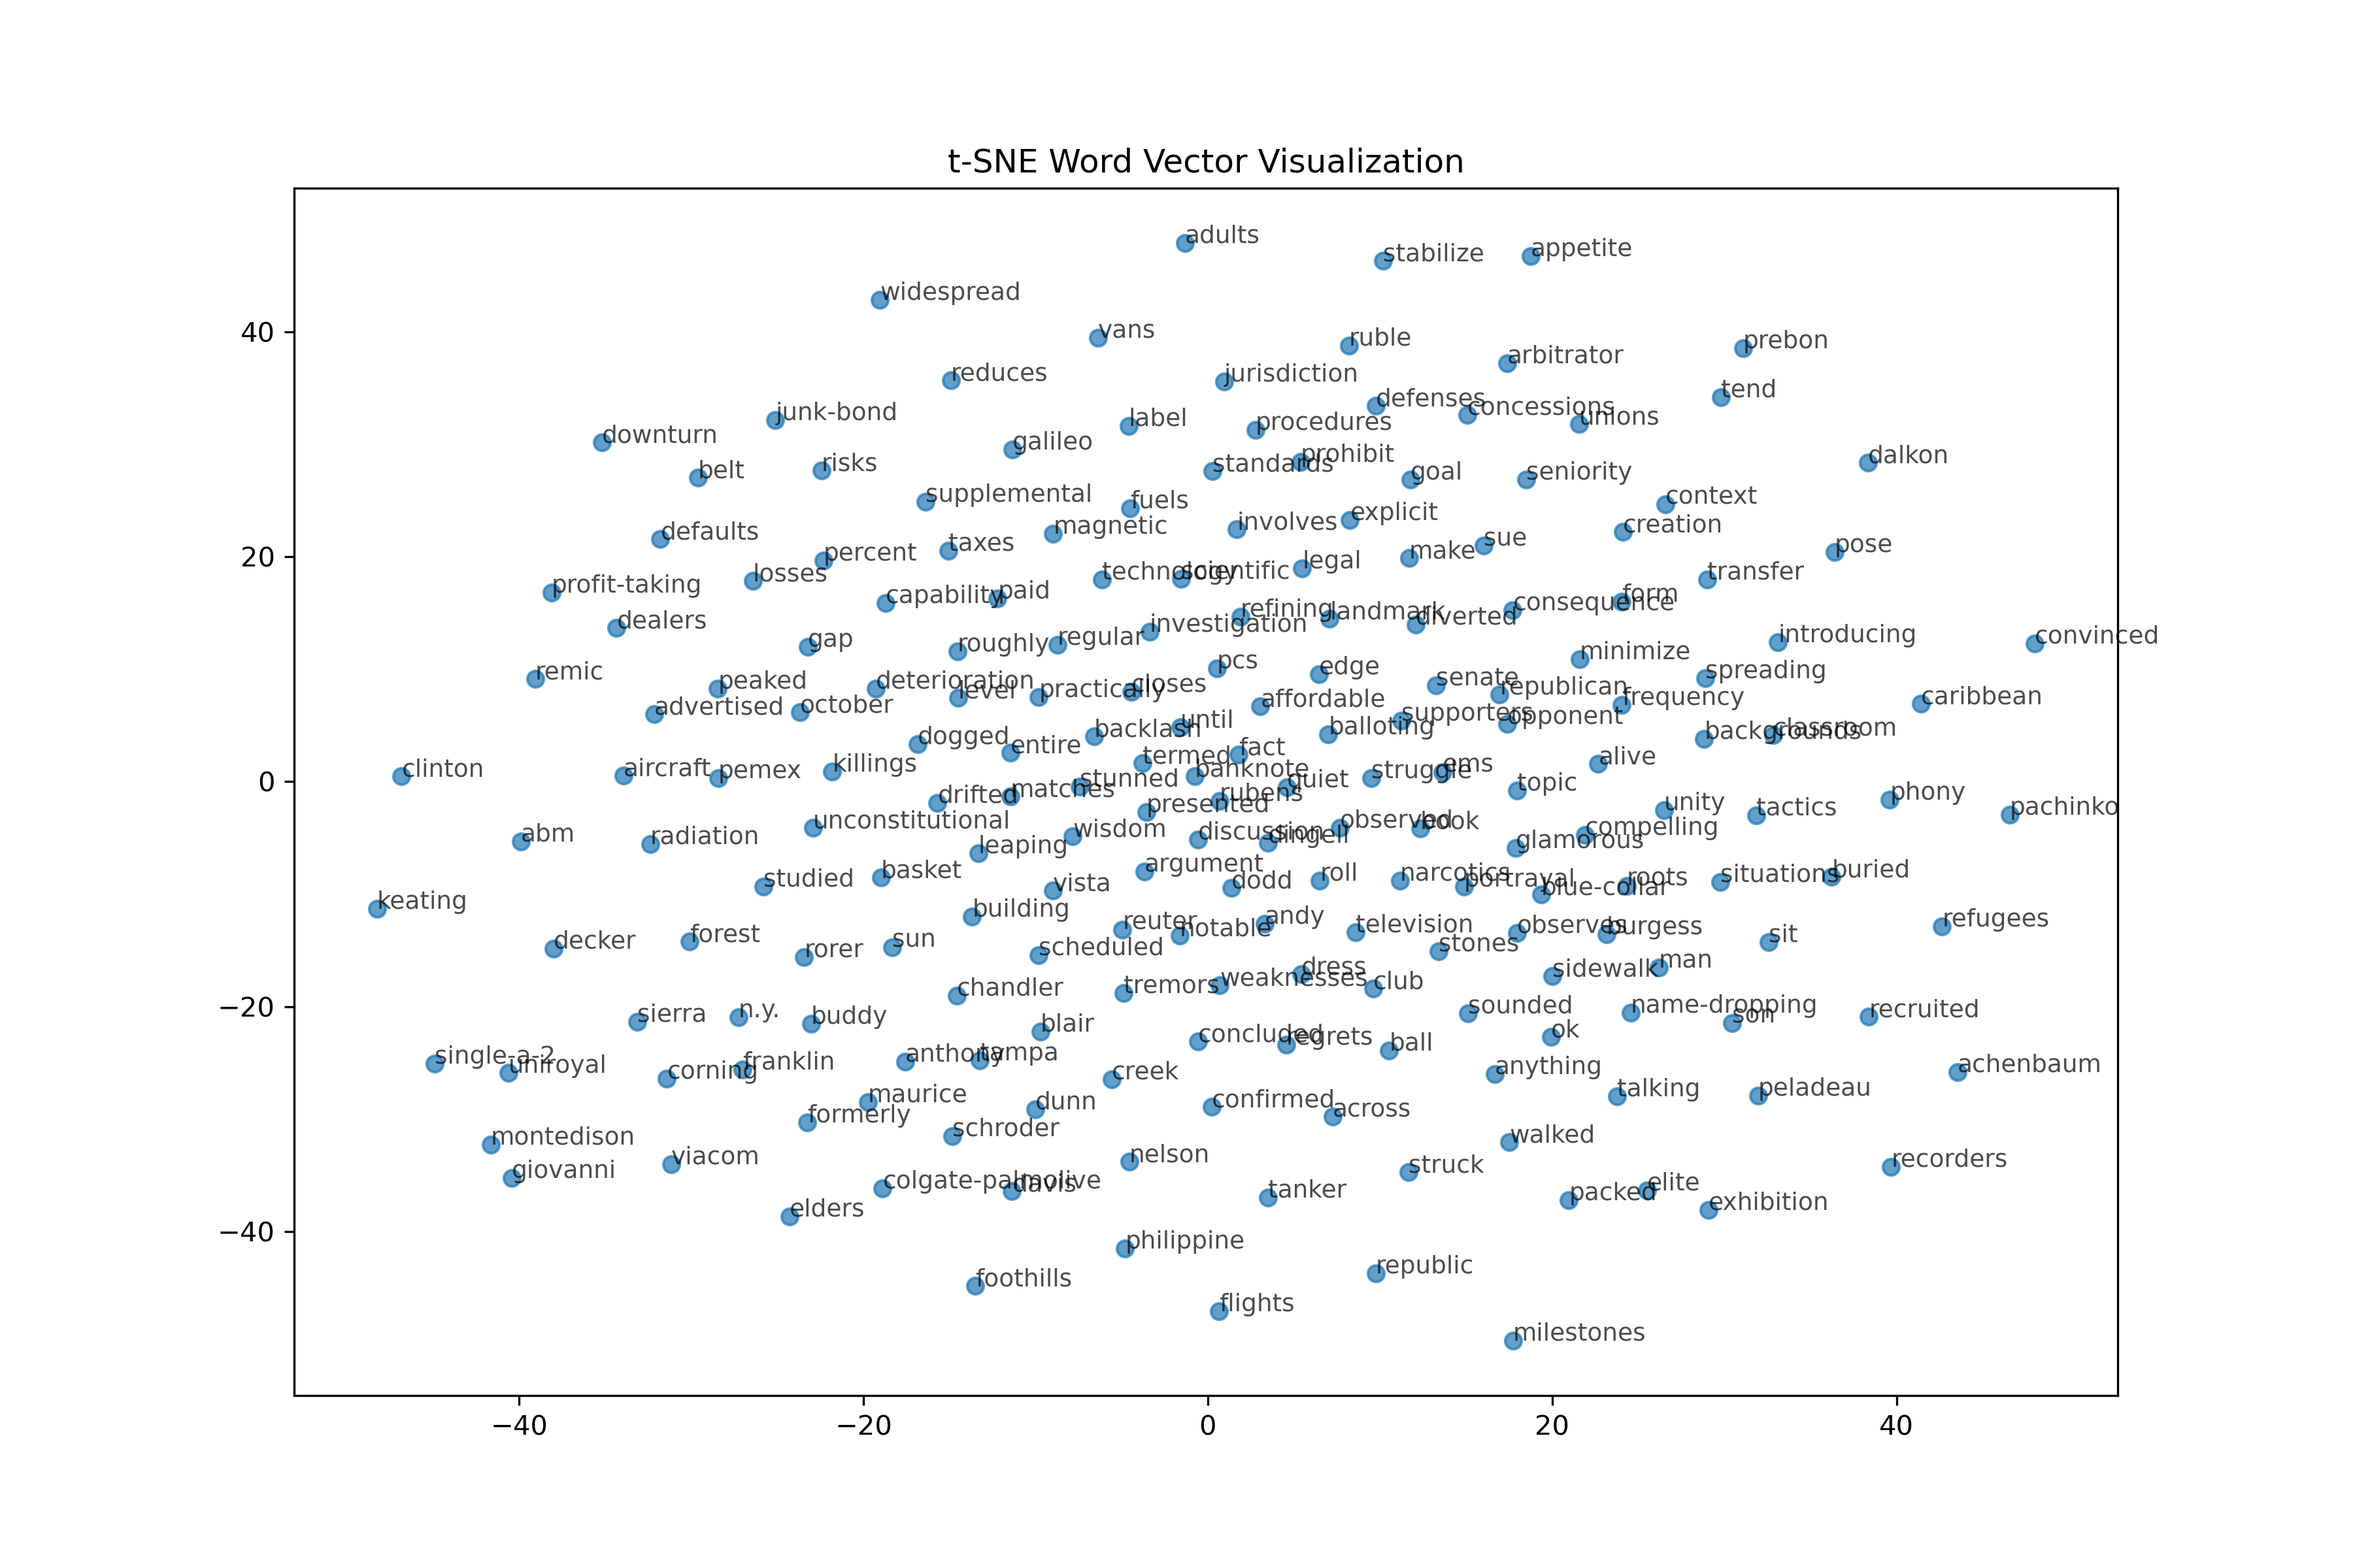
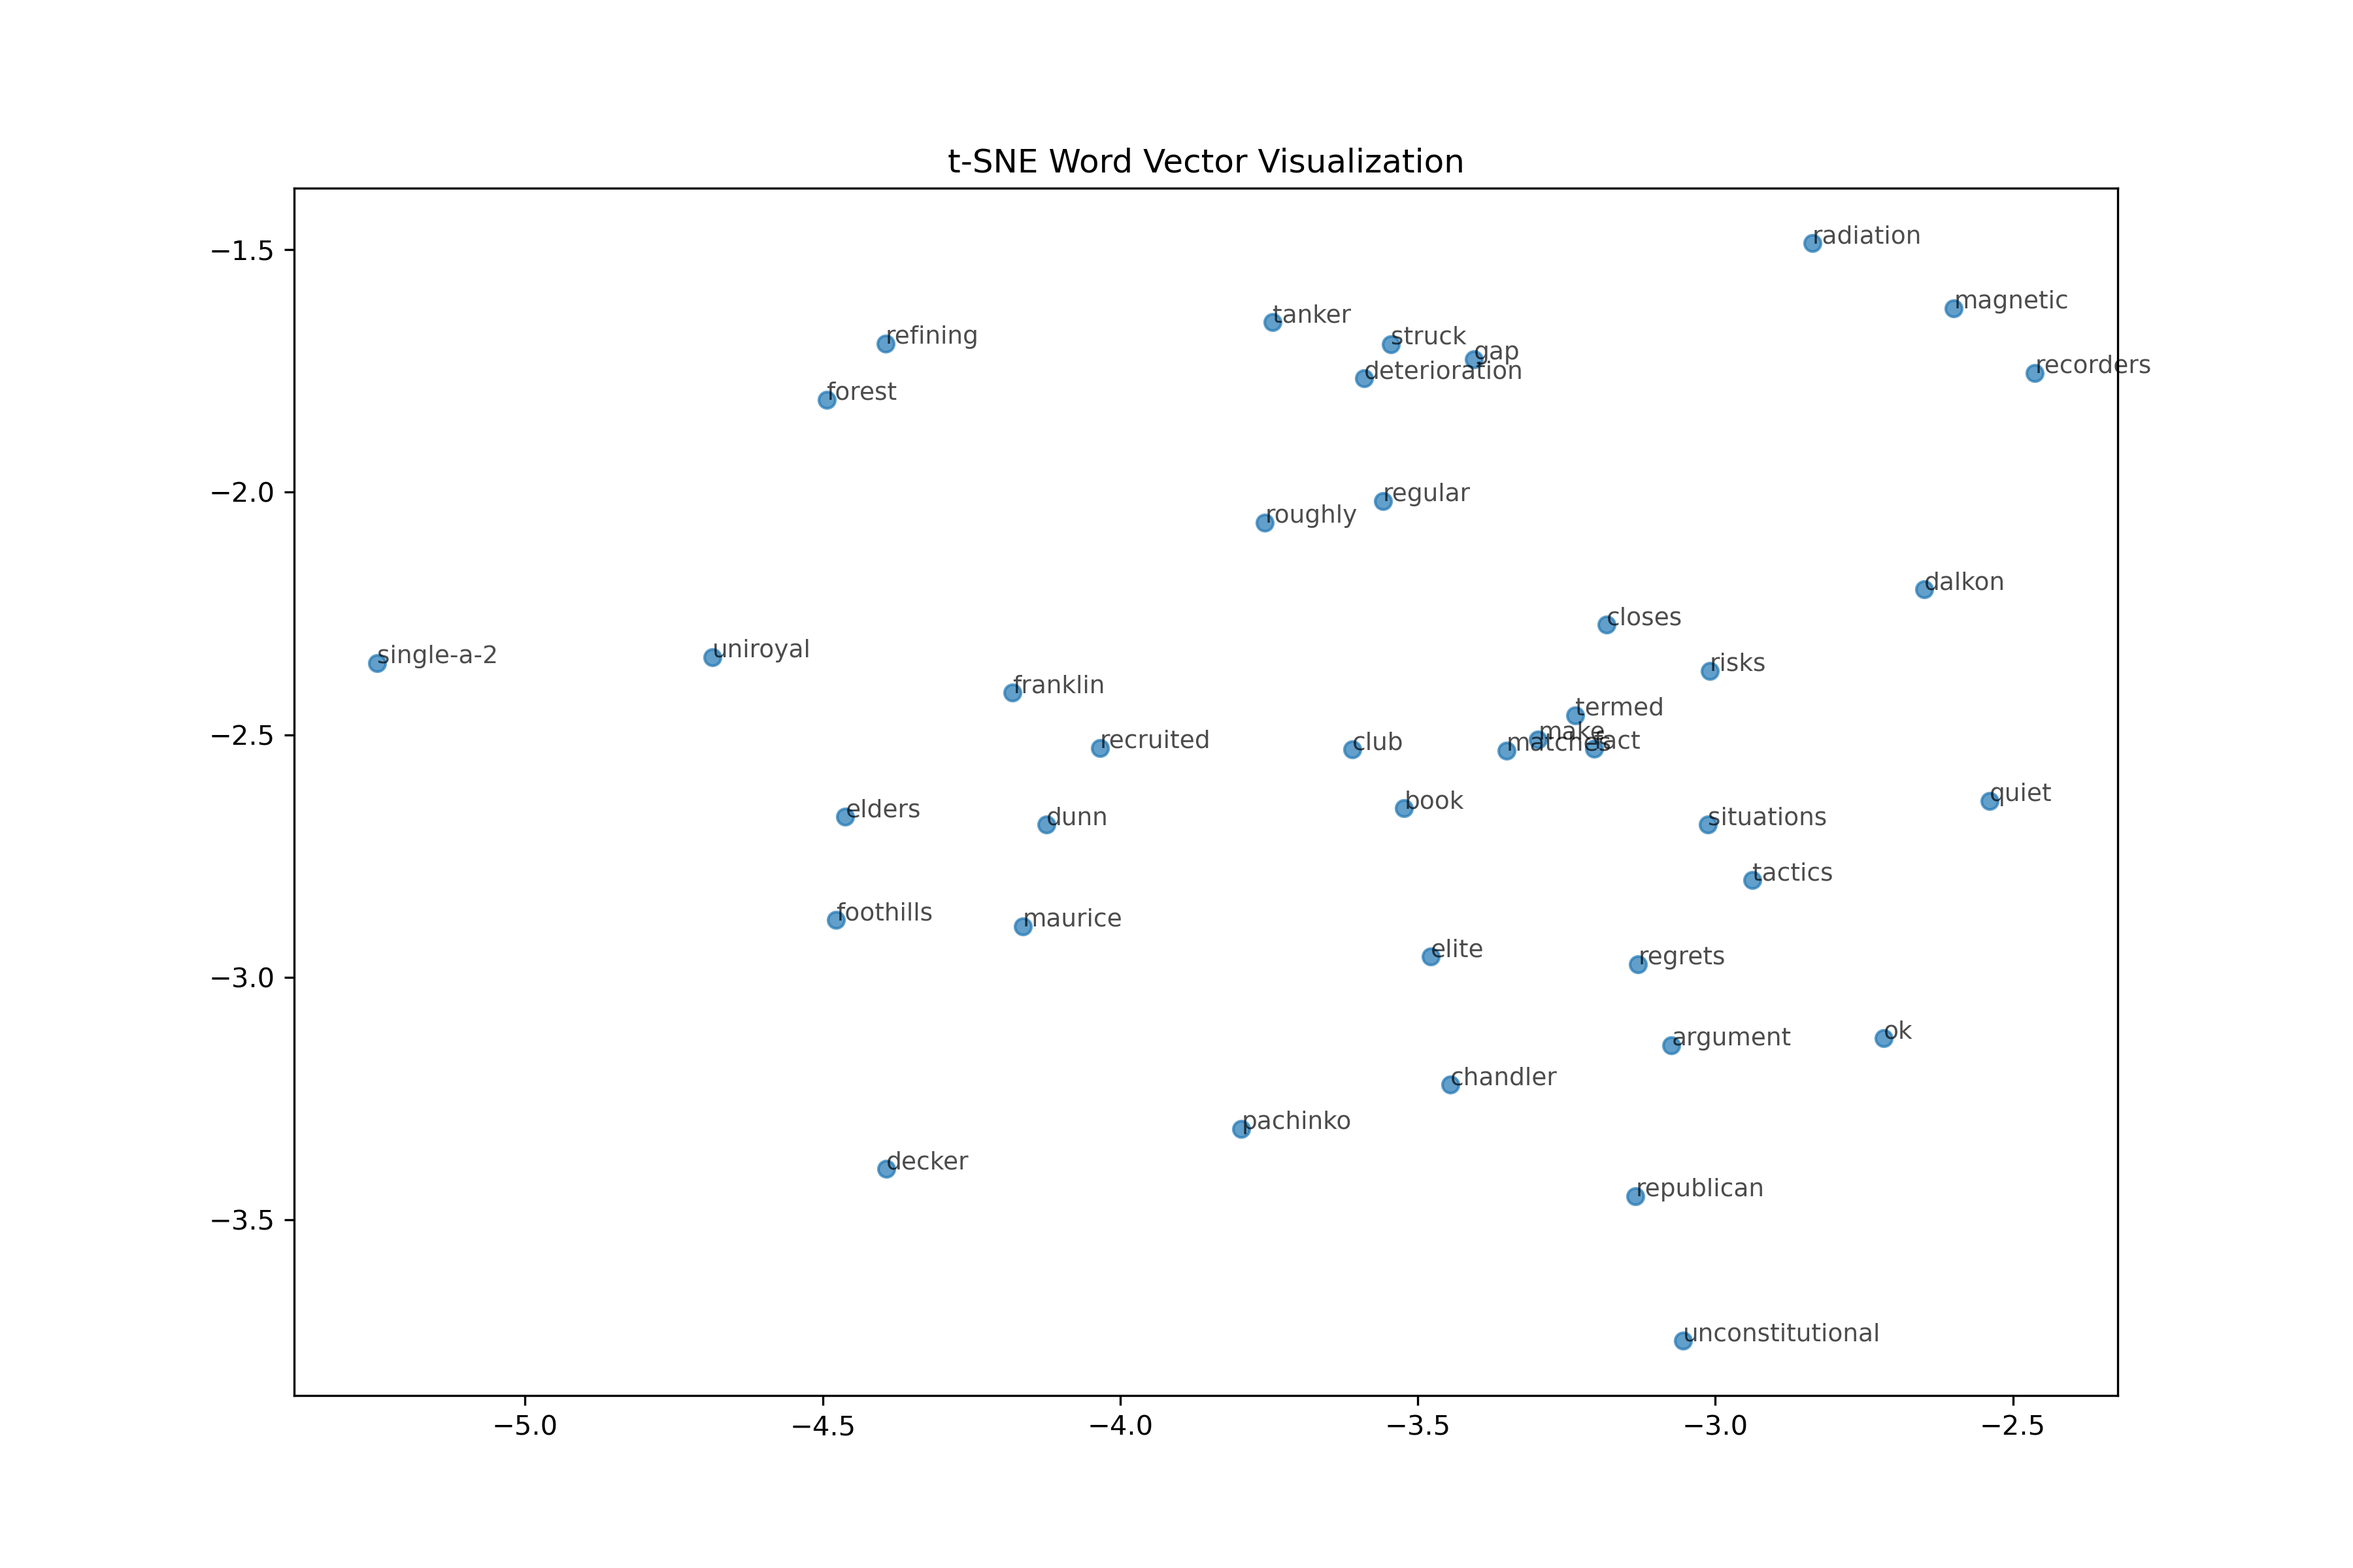
f

diff --git a/ch04/viz_tsne.py b/ch04/viz_tsne.py
@@ -44,6 +44,6 @@ def visualize_tsne(pkl_file, output_file="cbow_tsne.png", num_words=200, seed=10
 
 # 사용 예시 (파일명 변경 필요)
 pkl_file = "cbow_params.pkl"  # 또는 'skipgram_params.pkl'
-visualize_tsne(pkl_file, "cbow_tsne.png")
+visualize_tsne(pkl_file, "cbow_tsne.png", 40)
 pkl_file = "skip_gram_params.pkl"
-visualize_tsne(pkl_file, "skip_gram_tsne.png")
+visualize_tsne(pkl_file, "skip_gram_tsne.png", 40)
